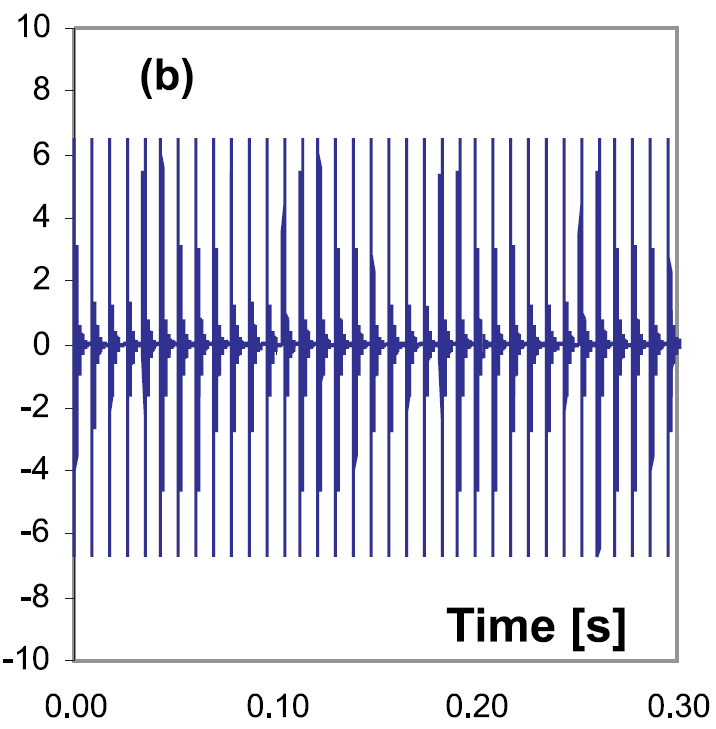
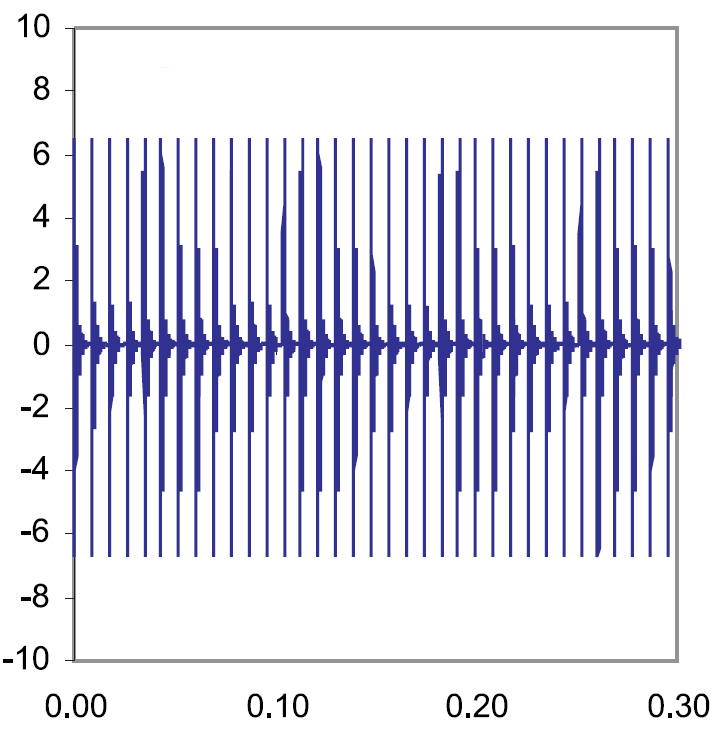
Editar figura com o resultado de Sassi (2007).

Changed region(s): [[0.6145, 0.8148, 0.8911, 0.9053], [0.1844, 0.0604, 0.2765, 0.1509]]

diff --git a/Relatorio/Main.tex b/Relatorio/Main.tex
@@ -1399,7 +1399,7 @@
 	Em \cite{sassi:2007}, um conjunto de parâmetros para a lubrificação hidrodinâmica de mancais de deslizamento é utilizado, em vez da teoria \gls{sig:EHL}, para a obtenção desta propriedade.
 	
 	\begin{figure}[t]
-		\incluirimagem[0.6]{ResultadoTempoSassi.png}{Resposta de vibração com maior atenuação}{\citeauthoronline{sassi:2007} (\citeyear{sassi:2007})}
+		\incluirimagem[0.6]{ResultadoTempoSassi.png}{Resposta de vibração com maior atenuação}{adaptado de \citeauthoronline{sassi:2007} (\citeyear{sassi:2007})}
 		\label{fig:resposta-tempo-sassi}
 	\end{figure}
 	
